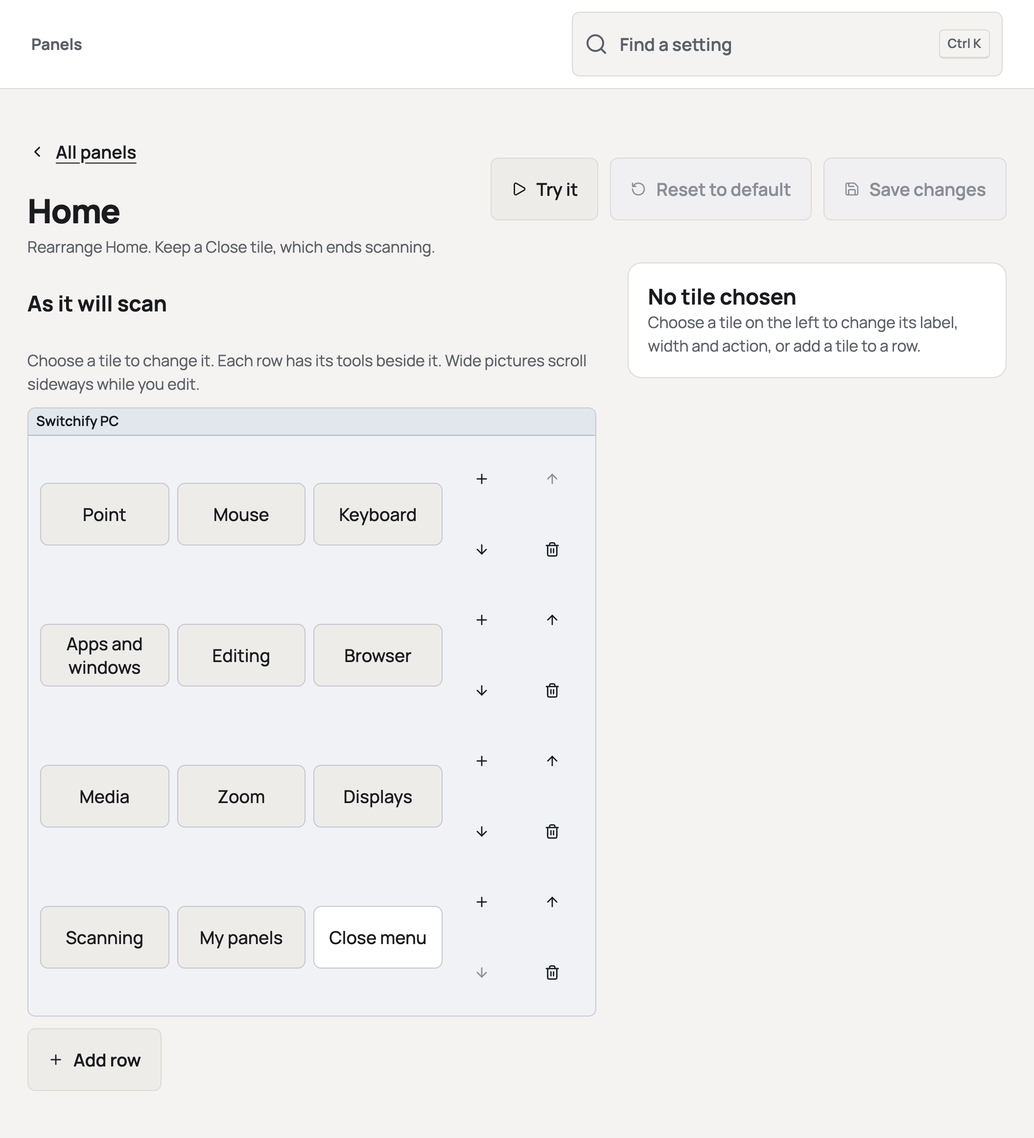
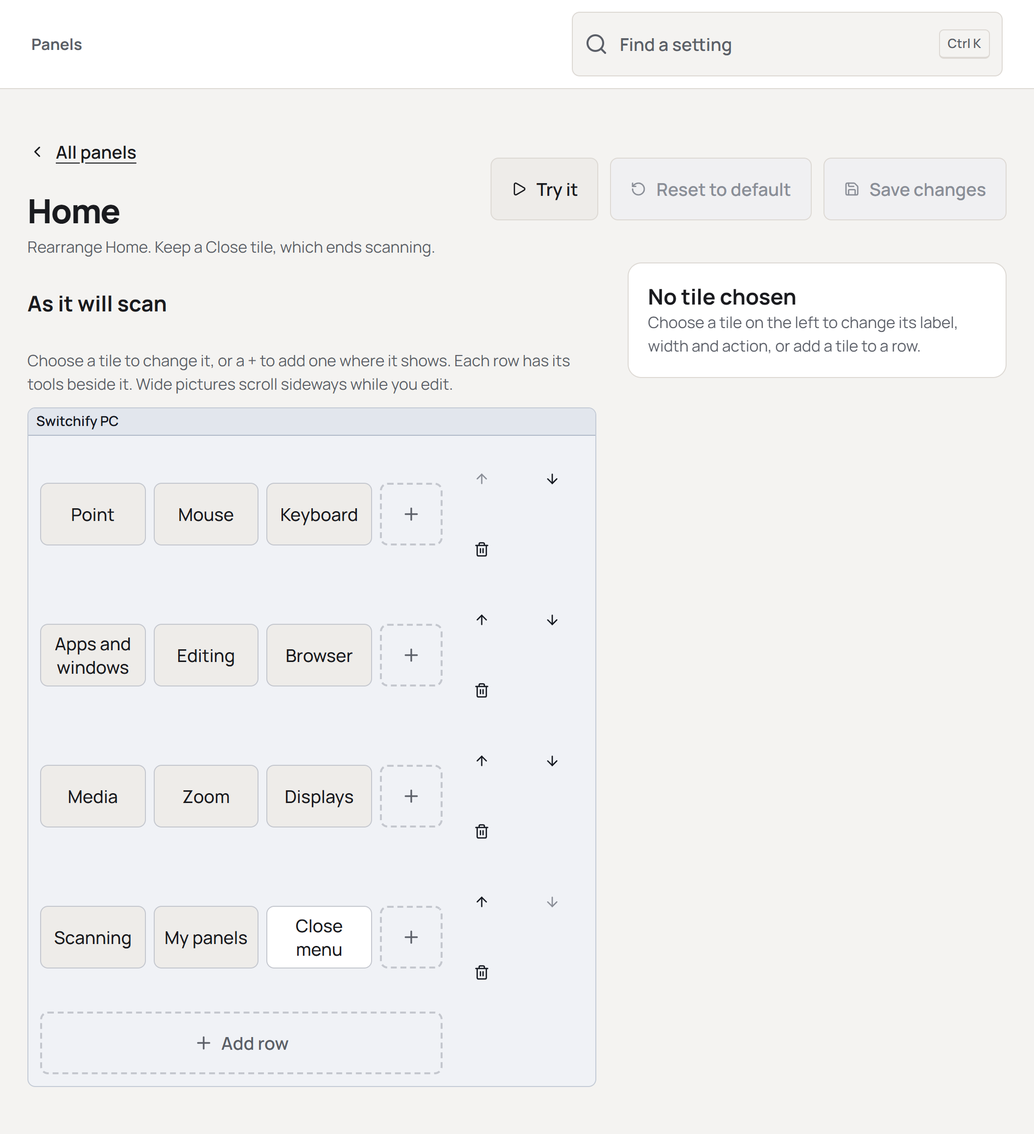
Add tiles and rows from + slots in the panel editor picture (#1456)
* Add tiles and rows from + slots in the panel editor picture

A dashed + now sits wherever a tile can be created: at the end of each
row or column with room, an Add row where the new row will land, and a
+ beside the first row of keys for a new column. They replace the Add
tile icons among the row and column tools and the Add row / Add column
buttons under the picture, and disappear once there is no room.

Closes #1455

* Send empty-row notes to the row's + and say rows go above the last key row

---------

diff --git a/src/panels/PanelEditor.tsx b/src/panels/PanelEditor.tsx
@@ -42,8 +42,6 @@ export function PanelEditor({ panel, panels, theme, busy, error, builtin, extras
   const [catalogue, setCatalogue] = useState<PanelActionEntry[]>([]);
   const backRef = useRef<HTMLButtonElement>(null);
   const deleteRef = useRef<HTMLButtonElement>(null);
-  const addRowRef = useRef<HTMLButtonElement>(null);
-  const addColumnRef = useRef<HTMLButtonElement>(null);
   const nameRef = useRef<HTMLInputElement>(null);
   const rowsRef = useRef<HTMLElement>(null);
   const ids = useId();
@@ -55,6 +53,8 @@ export function PanelEditor({ panel, panels, theme, busy, error, builtin, extras
   /** Brings an element into view and gives it focus. */
   const reveal = (element: HTMLElement | null) => { element?.scrollIntoView?.({ block: "center" }); element?.focus(); };
   const tileId = (selection: Selection) => `${ids}-${selection.column ? "ctile" : "tile"}-${selection.row}-${selection.cell}`;
+  /** The add button at the end of a row or column, or (no index) the one that adds a new row or column. */
+  const addId = (column: boolean, index?: number) => `${ids}-add-${column ? "column" : "row"}${index === undefined ? "" : `-${index}`}`;
   /** What stops the panel saving, each with a way to the place it is about,
    *  so a problem out of view is never a mystery. */
   const attention = Object.entries(problems).map(([key, message]) => {
@@ -66,7 +66,8 @@ export function PanelEditor({ panel, panels, theme, busy, error, builtin, extras
     const line = key.match(/^(row|column)-(\d+)$/);
     if (line) {
       const place = `${line[1] === "row" ? "Row" : "Column"} ${Number(line[2]) + 1}`;
-      return { label: `${place}: ${message}`, go: () => reveal(document.querySelector<HTMLElement>(`[aria-label="Add tile to ${place.toLowerCase()}"]`)) };
+      const first: Selection = { row: Number(line[2]), cell: 0, ...(line[1] === "column" ? { column: true as const } : {}) };
+      return { label: `${place}: ${message}`, go: () => reveal(document.getElementById(tileId(first)) ?? document.getElementById(addId(line[1] === "column", first.row)) ?? rowsRef.current) };
     }
     const section = key === "name" ? nameRef : rowsRef;
     return { label: `To save: ${message}`, go: () => reveal(section.current) };
@@ -81,8 +82,13 @@ export function PanelEditor({ panel, panels, theme, busy, error, builtin, extras
   const replaceIn = (lines: PanelCell[][], selection: Selection, cell: PanelCell) => lines.map((line, r) => r === selection.row ? line.map((candidate, c) => c === selection.cell ? cell : candidate) : line);
   const setCell = (selection: Selection, cell: PanelCell) => selection.column ? setColumns(replaceIn(columns, selection, cell)) : updateRows(replaceIn(draft.rows, selection, cell));
   const problemOf = (selection: Selection) => problems[selection.column ? `ctile-${selection.row}-${selection.cell}` : `tile-${selection.row}-${selection.cell}`] ?? null;
-  /** Focus goes to the section's Add button once the tile that had it is gone. */
-  const focusAfterRemoval = (column = false) => requestAnimationFrame(() => (column ? addColumnRef : addRowRef).current?.focus());
+  /** Once the tile that had focus is gone, focus goes to the add button
+   *  where it was: the end of its row or column if that is still there,
+   *  otherwise the one that adds a new row or column. */
+  const focusAfterRemoval = (column: boolean, index?: number) => requestAnimationFrame(() => {
+    const target = (index === undefined ? null : document.getElementById(addId(column, index))) ?? document.getElementById(addId(column));
+    (target ?? rowsRef.current)?.focus();
+  });
 
   const addTile = (rowIndex: number) => {
     if (draft.rows[rowIndex].length >= maxTilesPerRow) return;
@@ -95,10 +101,12 @@ export function PanelEditor({ panel, panels, theme, busy, error, builtin, extras
     choose({ row: draft.rows.length, cell: 0 });
   };
   const removeTile = (selection: Selection) => {
-    const lines = (selection.column ? columns : draft.rows).map((line, r) => r === selection.row ? line.filter((_, c) => c !== selection.cell) : line).filter((line) => line.length > 0);
+    const before = selection.column ? columns : draft.rows;
+    const lines = before.map((line, r) => r === selection.row ? line.filter((_, c) => c !== selection.cell) : line).filter((line) => line.length > 0);
     if (selection.column) setColumns(lines); else updateRows(lines);
     setSelected(null);
-    focusAfterRemoval(selection.column === true);
+    // A line left empty goes, and the lines after it move up, so only a line that stays keeps its place.
+    focusAfterRemoval(selection.column === true, before[selection.row].length > 1 ? selection.row : undefined);
   };
   const addColumnTile = (columnIndex: number) => {
     if (columns[columnIndex].length >= maxColumnTiles) return;
@@ -126,7 +134,7 @@ export function PanelEditor({ panel, panels, theme, busy, error, builtin, extras
   const removeRow = (rowIndex: number) => {
     updateRows(draft.rows.filter((_, r) => r !== rowIndex));
     setSelected(null);
-    focusAfterRemoval();
+    focusAfterRemoval(false);
   };
   /** Moves a tile to the end of another row or column, or a new one. A row
    *  or column left empty goes with it. */
@@ -173,6 +181,9 @@ export function PanelEditor({ panel, panels, theme, busy, error, builtin, extras
     setCell(selection, { ...cell, action, label });
   };
 
+  /** A + drawn in the picture where a tile can be created; the new row's one says so in words. */
+  const addButton = (id: string, label: string, onClick: () => void, wide = false) => <Button id={id} className="panel-editor-add" aria-label={label} title={label} onClick={onClick}><Plus size={20} aria-hidden="true" />{wide && <span aria-hidden="true">{label}</span>}</Button>;
+
   const requestClose = () => { if (!dirty) { onClose(); return; } onClearError?.(); setConfirmation("discard"); };
   const requestDelete = () => { onClearError?.(); setConfirmation("delete"); };
   const keepEditing = () => {
@@ -195,7 +206,7 @@ export function PanelEditor({ panel, panels, theme, busy, error, builtin, extras
       busy={busy} error={error} onCancel={keepEditing} onConfirm={() => { if (confirmation === "delete") void onDelete(); else onClose(); }}
     />}
     <div inert={confirmation !== null || undefined}>
-      <PageHeader title={panel.name} before={<Button ref={backRef} className="text-button panel-back" onClick={requestClose}><ChevronLeft size={18} aria-hidden="true" />All panels</Button>} description={<>{extras ? "Add rows of your own below the keys, or columns beside them. The keys stay as they are; your tiles scan with them." : builtin ? (builtin.kind === "home" ? "Rearrange Home. Keep a Close tile, which ends scanning." : "Rearrange this built-in menu. Keep a Back or Close tile so it can be left.") : "Choose a tile to change what it says and does. Rows share their width between their tiles."}</>} action={
+      <PageHeader title={panel.name} before={<Button ref={backRef} className="text-button panel-back" onClick={requestClose}><ChevronLeft size={18} aria-hidden="true" />All panels</Button>} description={<>{extras ? "Add rows of your own above the last row of keys, or columns beside them. The keys stay as they are; your tiles scan with them." : builtin ? (builtin.kind === "home" ? "Rearrange Home. Keep a Close tile, which ends scanning." : "Rearrange this built-in menu. Keep a Back or Close tile so it can be left.") : "Choose a tile to change what it says and does. Rows share their width between their tiles."}</>} action={
         <div className="panel-header-actions">{onTry && <Button className="secondary" disabled={busy || dirty} title={dirty ? "Save first, then try" : "Open this panel in the scanner"} onClick={() => { onClearError?.(); void onTry(); }}><Play size={16} aria-hidden="true" />Try it</Button>}{extras
           ? <Button ref={deleteRef} className="secondary danger" disabled={busy || !extras.hasTiles} title={extras.hasTiles ? undefined : "No tiles added yet"} onClick={requestDelete}><Trash2 size={16} aria-hidden="true" />Remove tiles</Button>
           : builtin
@@ -214,7 +225,7 @@ export function PanelEditor({ panel, panels, theme, busy, error, builtin, extras
           </form>
           <section ref={rowsRef} tabIndex={-1} className="panel-grid-editor" aria-label="Tiles">
             <h2>As it will scan</h2>
-            <p className="capability-note">{extras ? "Choose one of your tiles to change it. Row tools sit beside the picture; labelled column tools sit below it." : "Choose a tile to change it. Each row has its tools beside it."} Wide pictures scroll sideways while you edit.</p>
+            <p className="capability-note">{extras ? "Choose one of your tiles to change it, or a + to add one where it shows. Row tools sit beside the picture; labelled column tools sit below it." : "Choose a tile to change it, or a + to add one where it shows. Each row has its tools beside it."} Wide pictures scroll sideways while you edit.</p>
             {problems.rows && <p className="field-error">{problems.rows}</p>}
             {problems.columns && <p className="field-error">{problems.columns}</p>}
             {[...draft.rows.map((_, index) => [`row-${index}`, `Row ${index + 1}`]), ...columns.map((_, index) => [`column-${index}`, `Column ${index + 1}`])].map(([key, place]) => problems[key] && <p key={key} className="field-error">{place}: {problems[key]}</p>)}
@@ -225,31 +236,29 @@ export function PanelEditor({ panel, panels, theme, busy, error, builtin, extras
                 const where = `${place.column ? "Column" : "Row"} ${place.row + 1}, tile ${place.cell + 1}`;
                 return <Button id={tileId(place)} className="panel-editor-tile" data-selected={here || undefined} data-toolbar={toolbarAction(cell.action) || undefined} data-invalid={problem ? true : undefined} aria-pressed={here} aria-label={`${where}: ${cell.label.trim() || "no label"}, ${describeAction(cell.action, catalogue, panels)}${problem ? `, ${problem}` : ""}`} onClick={() => choose(place)}>{cell.label.trim() || <em>No label</em>}</Button>;
               },
+              rowEnd: (rowIndex) => draft.rows[rowIndex].length < maxTilesPerRow && addButton(addId(false, rowIndex), `Add tile to row ${rowIndex + 1}`, () => addTile(rowIndex)),
+              columnEnd: (columnIndex) => columns[columnIndex].length < maxColumnTiles && addButton(addId(true, columnIndex), `Add tile to column ${columnIndex + 1}`, () => addColumnTile(columnIndex)),
+              newRow: draft.rows.length < rowLimit && addButton(addId(false), "Add row", addRow, true),
+              newColumn: extras !== undefined && columns.length < maxExtraColumns && addButton(addId(true), "Add column", addColumn),
               rowTools: (rowIndex) => <>
-                <IconButton disabled={draft.rows[rowIndex].length >= maxTilesPerRow} label={`Add tile to row ${rowIndex + 1}`} onClick={() => addTile(rowIndex)}><Plus size={16} /></IconButton>
                 <IconButton disabled={rowIndex === 0} label={`Move row ${rowIndex + 1} up`} onClick={() => moveRow(rowIndex, -1)}><ArrowUp size={16} /></IconButton>
                 <IconButton disabled={rowIndex === draft.rows.length - 1} label={`Move row ${rowIndex + 1} down`} onClick={() => moveRow(rowIndex, 1)}><ArrowDown size={16} /></IconButton>
                 <IconButton className="danger-icon" label={`Remove row ${rowIndex + 1}`} onClick={() => removeRow(rowIndex)}><Trash2 size={16} /></IconButton>
               </>,
               columnTools: (columnIndex) => <>
-                <IconButton disabled={columns[columnIndex].length >= maxColumnTiles} label={`Add tile to column ${columnIndex + 1}`} onClick={() => addColumnTile(columnIndex)}><Plus size={16} /></IconButton>
                 <IconButton disabled={columnIndex === 0} label={`Move column ${columnIndex + 1} left`} onClick={() => moveColumn(columnIndex, -1)}><ArrowLeft size={16} /></IconButton>
                 <IconButton disabled={columnIndex === columns.length - 1} label={`Move column ${columnIndex + 1} right`} onClick={() => moveColumn(columnIndex, 1)}><ArrowRight size={16} /></IconButton>
                 <IconButton className="danger-icon" label={`Remove column ${columnIndex + 1}`} onClick={() => removeColumn(columnIndex)}><Trash2 size={16} /></IconButton>
               </>,
             }} />
-            <div className="panel-canvas-actions">
-              <Button ref={addRowRef} className="secondary" disabled={draft.rows.length >= rowLimit} onClick={addRow}><Plus size={16} aria-hidden="true" />Add row</Button>
-              {extras && <Button ref={addColumnRef} className="secondary" disabled={columns.length >= maxExtraColumns} onClick={addColumn}><Plus size={16} aria-hidden="true" />Add column</Button>}
-            </div>
-            {extras && draft.rows.length === 0 && columns.length === 0 && <p className="capability-note">No tiles of your own yet. Add a row below the keys or a column beside them, then give its tiles labels and actions.</p>}
+            {extras && draft.rows.length === 0 && columns.length === 0 && <p className="capability-note">No tiles of your own yet. Choose Add row above the last row of keys, or the + beside the keys for a column, then give its tiles labels and actions.</p>}
           </section>
         </div>
         <aside className="panel-inspector" aria-label="Selected tile">
           {selected && current
             ? <TileInspector pick={pick} selection={selected} cell={current} catalogue={catalogue} panels={panels} self={draft.id} problem={problemOf(selected)} lines={selected.column ? columns : draft.rows} lineLimit={selected.column ? maxExtraColumns : rowLimit} tileLimit={selected.column ? maxColumnTiles : maxTilesPerRow}
               onChange={(cell) => setCell(selected, cell)} onAction={(action) => chooseAction(selected, current, action)} onMove={(direction) => moveTile(selected, direction)} onMoveTo={(target) => moveTileTo(selected, target)} onRemove={() => removeTile(selected)} />
-            : <div className="panel-inspector-empty"><h2>No tile chosen</h2><p>Choose a tile on the left to change its label, width and action, or add a tile to a row.</p></div>}
+            : <div className="panel-inspector-empty"><h2>No tile chosen</h2><p>Choose a tile on the left to change its label, width and action, or a + to add one.</p></div>}
         </aside>
       </div>
     </div>

diff --git a/src/panels/PanelPicture.tsx b/src/panels/PanelPicture.tsx
@@ -22,12 +22,19 @@ export function picturePalette(theme: PanelTheme | undefined) {
 export type TilePlace = { row: number; cell: number; column?: true };
 
 /** Makes a picture editable: the user's tiles are drawn by `tile`, every
- *  row gets tools beside it and columns get labelled tools below. The whole thing is a group
- *  rather than an image. */
+ *  row gets tools beside it and columns get labelled tools below. Wherever a
+ *  tile can be created there is an add button: at the end of a row or column
+ *  with room (`rowEnd`, `columnEnd`), a new row where it will land (`newRow`)
+ *  and a new column to the right (`newColumn`). Each is null where there is
+ *  no room. The whole thing is a group rather than an image. */
 export type PictureEditing = {
   tile: (cell: PanelCell, place: TilePlace, colours: Palette) => React.ReactNode;
   rowTools: (row: number) => React.ReactNode;
   columnTools: (column: number) => React.ReactNode;
+  rowEnd: (row: number) => React.ReactNode;
+  columnEnd: (column: number) => React.ReactNode;
+  newRow: React.ReactNode;
+  newColumn: React.ReactNode;
 };
 
 /** A panel drawn as the scan will show it: a title band, then the rows of
@@ -51,21 +58,38 @@ export function PanelPicture({ panel, fixed, columns = [], editing, theme, title
     ? editing.tile(cell, place, colours)
     : <PictureTile cell={cell} colours={colours} width={width} data-column={place.column ? place.row + 1 : undefined} />;
   type Line = { key: string; keys: React.ReactNode[]; blank: boolean; row?: number };
+  // A row's add button sits after its tiles at a fixed width, so the tiles keep their shares of the row.
+  const rowEnd = (row: number) => {
+    const add = editing?.rowEnd(row);
+    return add ? [<span key="add" className="panel-picture-add">{add}</span>] : [];
+  };
+  // A new row is drawn where it will land: after the user's rows, so above a native panel's last row of keys.
+  const newRow: Line[] = editing?.newRow ? [{ key: "new-row", blank: false, keys: [<span key="add" className="panel-picture-slot" style={{ flexGrow: 1, flexBasis: 0 }}>{editing.newRow}</span>] }] : [];
   const lines: Line[] = [
     // While editing, the keys are scenery: the group's label already says they are there.
     ...(fixed ?? []).slice(0, -1).map((row, index): Line => ({ key: `fixed-${index}`, blank: false, keys: row.map((key, column) => <FixedTile key={column} cell={key} colours={colours} hidden={editing !== undefined} />) })),
-    ...panel.rows.map((row, index): Line => ({ key: `row-${index}`, blank: false, row: index, keys: row.map((cell, column) => <span key={column} className="panel-picture-slot" style={{ flexGrow: cell.span, flexBasis: 0 }}>{userTile(cell, { row: index, cell: column })}</span>) })),
+    ...panel.rows.map((row, index): Line => ({ key: `row-${index}`, blank: false, row: index, keys: [...row.map((cell, column) => <span key={column} className="panel-picture-slot" style={{ flexGrow: cell.span, flexBasis: 0 }}>{userTile(cell, { row: index, cell: column })}</span>), ...rowEnd(index)] })),
+    ...newRow,
     ...(fixed ?? []).slice(-1).map((row): Line => ({ key: "fixed-last", blank: false, keys: row.map((key, column) => <FixedTile key={column} cell={key} colours={colours} hidden={editing !== undefined} />) })),
   ];
-  const longest = Math.max(0, ...columns.map((column) => column.length));
+  const columnEnds = columns.map((_, c) => editing?.columnEnd(c) || null);
+  const longest = Math.max(0, ...columns.map((column, c) => column.length + (columnEnds[c] ? 1 : 0)));
   for (let index = lines.length; index < longest; index++) lines.push({ key: `below-${index}`, blank: true, keys: [] });
-  const slots = (index: number) => columns.map((column, c) => column[index]
-    ? <span key={`column-${c}`} className="panel-picture-slot" style={{ flexGrow: columnWidth(column), flexBasis: 0 }}>{userTile(column[index], { row: c, cell: index, column: true }, columnWidth(column))}</span>
-    : <span key={`column-${c}`} className="panel-picture-spacer" style={{ flexGrow: columnWidth(column), flexBasis: 0 }} />);
+  const newColumn = editing?.newColumn || null;
+  const slots = (index: number) => [
+    ...columns.map((column, c) => column[index]
+      ? <span key={`column-${c}`} className="panel-picture-slot" style={{ flexGrow: columnWidth(column), flexBasis: 0 }}>{userTile(column[index], { row: c, cell: index, column: true }, columnWidth(column))}</span>
+      : index === column.length && columnEnds[c]
+      ? <span key={`column-${c}`} className="panel-picture-slot" style={{ flexGrow: columnWidth(column), flexBasis: 0 }}>{columnEnds[c]}</span>
+      : <span key={`column-${c}`} className="panel-picture-spacer" style={{ flexGrow: columnWidth(column), flexBasis: 0 }} />),
+    // A new column starts beside the first line; the lines below keep its width clear.
+    ...(newColumn ? [<span key="new-column" className="panel-picture-add">{index === 0 && newColumn}</span>] : []),
+  ];
+  const besideKeys = columns.length > 0 || newColumn !== null;
   const keys = (line: Line) => line.blank
     ? <span className="panel-picture-spacer" style={{ flexGrow: keysWeight, flexBasis: 0 }} />
     // With columns beside them, every line keeps its keys to the keys' width so the columns line up.
-    : columns.length > 0 ? <span className="panel-picture-keys" style={{ flexGrow: keysWeight, flexBasis: 0 }}>{line.keys}</span> : line.keys;
+    : besideKeys ? <span className="panel-picture-keys" style={{ flexGrow: keysWeight, flexBasis: 0 }}>{line.keys}</span> : line.keys;
   const line = (entry: Line, index: number) => {
     const row = <div className="panel-picture-row" role={editing && entry.row !== undefined ? "group" : undefined} aria-label={editing && entry.row !== undefined ? `Row ${entry.row + 1}` : undefined}>{keys(entry)}{slots(index)}</div>;
     return editing

diff --git a/src/panels/PanelEditor.test.tsx b/src/panels/PanelEditor.test.tsx
@@ -100,7 +100,9 @@ describe("PanelEditor", () => {
     mount();
     fireEvent.click(screen.getByRole("button", { name: "Add tile to row 1" }));
     expect(screen.getByRole("heading", { name: "Row 1, tile 3" })).toBeInTheDocument();
-    expect(within(screen.getByRole("group", { name: "Row 1" })).getAllByRole("button")).toHaveLength(3);
+    expect(within(screen.getByRole("group", { name: "Row 1" })).getAllByRole("button", { name: /^Row 1, tile/ })).toHaveLength(3);
+    // The row ends with its + after the new tile.
+    expect(within(screen.getByRole("group", { name: "Row 1" })).getAllByRole("button").at(-1)).toHaveAccessibleName("Add tile to row 1");
     fireEvent.click(screen.getByRole("button", { name: "Move tile left" }));
     expect(screen.getByRole("heading", { name: "Row 1, tile 2" })).toBeInTheDocument();
     fireEvent.click(screen.getByRole("button", { name: "Add row" }));
@@ -115,6 +117,29 @@ describe("PanelEditor", () => {
     fireEvent.click(screen.getByRole("button", { name: "Remove row 1" }));
     expect(screen.getByText("Add at least one row.")).toBeInTheDocument();
     expect(screen.getByRole("button", { name: "Save panel" })).toBeDisabled();
+  });
+
+  it("shows a + wherever a tile can be created, and none where there is no room", async () => {
+    const tile = (label: string) => ({ label, action: { type: "back" as const }, span: 1 });
+    const full = Array.from({ length: 8 }, (_, index) => tile(`T${index + 1}`));
+    mount({ ...starter(), rows: [full, [tile("Back")]] });
+    // A full row has no +; one with room ends with one; and a new row can be added.
+    expect(screen.queryByRole("button", { name: "Add tile to row 1" })).not.toBeInTheDocument();
+    expect(within(screen.getByRole("group", { name: "Row 2" })).getByRole("button", { name: "Add tile to row 2" })).toBeInTheDocument();
+    fireEvent.click(screen.getByRole("button", { name: "Add tile to row 2" }));
+    expect(screen.getByRole("heading", { name: "Row 2, tile 2" })).toBeInTheDocument();
+    // Removing a tile from a row that stays puts focus on that row's +.
+    fireEvent.click(screen.getByRole("button", { name: "Remove tile" }));
+    await waitFor(() => expect(screen.getByRole("button", { name: "Add tile to row 2" })).toHaveFocus());
+    for (let added = 2; added < 12; added++) fireEvent.click(screen.getByRole("button", { name: "Add row" }));
+    expect(screen.getByRole("group", { name: "Row 12" })).toBeInTheDocument();
+    expect(screen.queryByRole("button", { name: "Add row" })).not.toBeInTheDocument();
+  });
+
+  it("takes a note about an empty row to that row's +", async () => {
+    mount({ ...starter(), rows: [...starter().rows, []] });
+    fireEvent.click(within(screen.getByRole("status")).getByRole("button", { name: /^Row 3:/ }));
+    await waitFor(() => expect(screen.getByRole("button", { name: "Add tile to row 3" })).toHaveFocus());
   });
 
   it("keeps focus and the user's labels when tiles and rows move", async () => {

diff --git a/src/panels/PanelPicture.test.tsx b/src/panels/PanelPicture.test.tsx
@@ -68,6 +68,7 @@ describe("PanelPicture", () => {
       tile: (cell, place) => <button type="button">{place.column ? "column" : "row"} {place.row + 1}.{place.cell + 1} {cell.label}</button>,
       rowTools: (row) => <button type="button">tools for row {row + 1}</button>,
       columnTools: (column) => <button type="button">tools for column {column + 1}</button>,
+      rowEnd: () => null, columnEnd: () => null, newRow: null, newColumn: null,
     }} />);
     const group = screen.getByRole("group", { name: "Greetings as it will scan: Copy, Hello; Back; columns: A" });
     expect(within(group).getByRole("button", { name: "row 1.2 Hello" })).toBeInTheDocument();
@@ -77,8 +78,23 @@ describe("PanelPicture", () => {
     expect(within(group).getByRole("button", { name: "tools for column 1" })).toBeInTheDocument();
     expect(screen.queryByRole("img")).not.toBeInTheDocument();
     // A native panel's keys are scenery while editing: not read out one by one.
-    render(<PanelPicture panel={panel} fixed={[[{ label: "q", weight: 1 }]]} theme="dark" editing={{ tile: () => null, rowTools: () => null, columnTools: () => null }} />);
+    render(<PanelPicture panel={panel} fixed={[[{ label: "q", weight: 1 }]]} theme="dark" editing={{ tile: () => null, rowTools: () => null, columnTools: () => null, rowEnd: () => null, columnEnd: () => null, newRow: null, newColumn: null }} />);
     expect(screen.getByText("q")).toHaveAttribute("aria-hidden", "true");
+  });
+
+  it("draws a + wherever a tile can be created, a new row where it will land", () => {
+    const tile = (label: string) => ({ label, action: { type: "text", text: label } as const, span: 1 });
+    const { container } = render(<PanelPicture panel={{ ...panel, rows: [[tile("R")]] }} fixed={[[{ label: "q", weight: 1 }], [{ label: "z", weight: 1 }]]} columns={[[tile("A")]]} theme="dark" editing={{
+      tile: (cell) => <button type="button">{cell.label}</button>,
+      rowTools: () => null, columnTools: () => null,
+      rowEnd: (row) => <button type="button">end of row {row + 1}</button>,
+      columnEnd: (column) => <button type="button">end of column {column + 1}</button>,
+      newRow: <button type="button">new row</button>,
+      newColumn: <button type="button">new column</button>,
+    }} />);
+    const rows = [...container.querySelectorAll(".panel-picture-row")] as HTMLElement[];
+    // The keys, the user's row, the new row, then the last row of keys.
+    expect(rows.map((row) => row.textContent)).toEqual(["qAnew column", "Rend of row 1end of column 1", "new row", "z"]);
   });
 
   it("follows the chosen panel theme, or the computer when set to system", () => {

diff --git a/src/App.test.tsx b/src/App.test.tsx
@@ -737,7 +737,7 @@ describe("Switchify PC shell", () => {
     expect(screen.queryByRole("textbox", { name: "Panel name" })).not.toBeInTheDocument();
     expect(screen.getByRole("button", { name: "Remove tiles" })).toBeDisabled();
     expect(screen.getByRole("button", { name: "Save changes" })).toBeDisabled();
-    expect(screen.getByText("No tiles of your own yet. Add a row below the keys or a column beside them, then give its tiles labels and actions.")).toBeInTheDocument();
+    expect(screen.getByText("No tiles of your own yet. Choose Add row above the last row of keys, or the + beside the keys for a column, then give its tiles labels and actions.")).toBeInTheDocument();
     fireEvent.click(screen.getByRole("button", { name: "Add row" }));
     fireEvent.click(screen.getByRole("button", { name: "Save changes" }));
     await waitFor(() => expect(saveExtras).toHaveBeenCalled());
@@ -780,7 +780,8 @@ describe("Switchify PC shell", () => {
     // and removing a column puts focus back on Add column.
     fireEvent.click(screen.getByRole("button", { name: "Mouse panel, 1 column" }));
     fireEvent.click(await screen.findByRole("button", { name: "Add column" }));
-    expect(screen.getByRole("button", { name: "Add column" })).toBeDisabled();
+    // With no room for another column, its + is gone.
+    expect(screen.queryByRole("button", { name: "Add column" })).not.toBeInTheDocument();
     fireEvent.click(screen.getByRole("button", { name: "Add row" }));
     fireEvent.click(screen.getByRole("button", { name: "Add row" }));
     fireEvent.click(screen.getByRole("button", { name: /^Column 2, tile 1/ }));
@@ -845,7 +846,7 @@ describe("Switchify PC shell", () => {
     fireEvent.click(await screen.findByRole("button", { name: "Mouse panel, keys only" }));
     await screen.findByRole("heading", { name: "Mouse panel", level: 1 });
     for (let added = 0; added < 4; added++) fireEvent.click(screen.getByRole("button", { name: "Add row" }));
-    expect(screen.getByRole("button", { name: "Add row" })).toBeDisabled();
+    expect(screen.queryByRole("button", { name: "Add row" })).not.toBeInTheDocument();
     expect(screen.getByRole("button", { name: "Save changes" })).toBeEnabled();
   });
 

diff --git a/src/ui/app.css b/src/ui/app.css
@@ -425,7 +425,10 @@ section[data-found], div[data-found]:not(.tile) { padding: 10px; margin: -10px; 
 .panel-column-toolbars { display: flex; flex-wrap: wrap; gap: 20px; border-top: 1px solid var(--border); padding-top: 16px; }
 .panel-column-toolbar { display: grid; gap: 8px; min-width: 0; }
 .panel-column-buttons { display: flex; flex-wrap: wrap; gap: 8px; }
-.panel-canvas-actions { display: flex; flex-wrap: wrap; gap: 12px; }
+/* Where a tile can be created: a dashed + at a fixed width, so the tiles beside it keep their shares. */
+.panel-picture-add { display: flex; flex: 0 0 64px; min-width: 64px; }
+.btn.panel-editor-add { width: 100%; min-width: 64px; min-height: 64px; gap: 8px; border: 2px dashed var(--border-strong); border-radius: 8px; padding: 6px 8px; color: var(--muted); background: transparent; }
+.btn.panel-editor-add:hover { border-color: var(--scan); color: var(--text); }
 .panel-picture-keys { display: flex; gap: 4px; min-width: 0; }
 .panel-picture-large .panel-picture-keys { gap: 8px; }
 .panel-picture-large { font-size: 1rem; }

diff --git a/site/src/content/docs/using/panels.md b/site/src/content/docs/using/panels.md
@@ -28,7 +28,7 @@ The editor draws the panel as it will scan. Wide pictures scroll sideways while 
 - **Width** makes a tile two, three or four times as wide as a normal tile. The tiles in a row share the row's width between them.
 - **Action** is what the tile does. Search the list by what you want, for example "copy", "volume" or "new tab", and choose an action. Some actions need a little more: **Press keys** asks you to press the keys on your keyboard, **Type text** asks for the text, and **Open one of my panels** asks which panel.
 
-Beside each row are its tools: add a tile to it, move it up or down, or remove it. Column tools sit below the picture, labelled **Column 1**, **Column 2**, and so on. **Add row** under the panel adds a row. With a tile chosen, the arrows move it along its row, **Row** moves it to the end of another row or a new one, and **Remove tile** takes it away. Nothing changes on the scanned panel until you choose **Save panel**; if you leave with unsaved changes, Switchify PC asks first.
+A dashed **+** shows each place a new tile can go: at the end of every row with room for another tile, and **Add row** under the last row. Choose one to add a tile there; the new tile is chosen, ready to change on the right. A row holds up to eight tiles and a panel up to twelve rows; once there is no room, the **+** is not shown. Beside each row are its tools: move it up or down, or remove it. Column tools sit below the picture, labelled **Column 1**, **Column 2**, and so on. With a tile chosen, the arrows move it along its row, **Row** moves it to the end of another row or a new one, and **Remove tile** takes it away. Nothing changes on the scanned panel until you choose **Save panel**; if you leave with unsaved changes, Switchify PC asks first.
 
 If something stops the panel saving, such as a tile with no label or a link to a panel that no longer exists, a note under the buttons says what and where. Choose the note to go to that tile.
 
@@ -36,7 +36,7 @@ If something stops the panel saving, such as a tile with no label or a link to a
 
 **Try it** opens the panel in the scanner straight away, as it would open from Home, so you can see and use it without leaving the editor. The Switchify PC window goes out of the way first, because the tiles act on whatever window is in front. Save first: Try it uses the panel as it was last saved, so it is off while there are unsaved changes. To come back to the editor, choose **Switchify** on Home (Back takes you there from a panel), or Switchify PC on the taskbar or in the Dock. Built-in menus, the mouse panel and the keyboard can be tried the same way. If the panel is open in the scanner when you save, it changes there and then, scanning again from the top. The mouse panel and the keyboard take new tiles the same way, unless the pointer is being moved or scrolled at that moment; then they change when the panel is next opened. A panel you delete closes, and the page it opened from is shown instead: Home, when you were trying it.
 
-![The editor for the Greetings panel: the panel drawn as it will scan, with tools beside each row and the Hello tile chosen, and on the right its label, width, row, action "Type Hello, how are you?" and the searchable list of actions.](../../../assets/screenshots/panel-editor.png)
+![The editor for the Greetings panel: the panel drawn as it will scan, each row ending in a dashed plus button with its tools beside it, a dashed Add row button under the last row, the Hello tile chosen, and on the right its label, width, row, action "Type Hello, how are you?" and the searchable list of actions.](../../../assets/screenshots/panel-editor.png)
 
 ## What a tile can do
 
@@ -66,21 +66,21 @@ If you rearranged Home in an earlier version, it gains a row with **Displays** a
 
 The Shut down and Restart pages, the page of clicks that appears after you choose a point, and the mouse panel's own pages cannot be changed. More clicks, reached from that page of clicks, can.
 
-![The editor open on the built-in Home menu: its four rows of tiles drawn as they scan with tools beside each row, a Reset to default button beside Save changes, and no name field.](../../../assets/screenshots/builtin-menu-editor.png)
+![The editor open on the built-in Home menu: its four rows of tiles drawn as they scan, each ending in a dashed plus button with tools beside it, a dashed Add row button under them, a Reset to default button beside Save changes, and no name field.](../../../assets/screenshots/builtin-menu-editor.png)
 
 Rearranged menus are saved on this computer and, if you sign in to your account, go to your other computers with your settings.
 
 ## Add tiles around the mouse panel's and the keyboard's keys
 
-**Mouse panel** and **Keyboard** in the On Home list are the two scanning panels with their keys. The keys cannot be changed, but you can add tiles of your own around them: a phrase you type often, a shortcut, or a link to one of your panels. Choose a panel, then **Add row** for a row below the keys or **Add column** for a column beside them, and give each tile a label and an action as on any panel. The keys are drawn faintly and cannot be chosen; your tiles sit among them where they will scan, with each row's tools beside it and each column's tools under it. With a tile chosen, **Row** or **Column** on the right moves it to another row or column, or a new one. Choose **Save changes**; the row then says what you added.
+**Mouse panel** and **Keyboard** in the On Home list are the two scanning panels with their keys. The keys cannot be changed, but you can add tiles of your own around them: a phrase you type often, a shortcut, or a link to one of your panels. Choose a panel, then **Add row**, just above the last row of keys, for a row of your own, or the **+** beside the first row of keys for a column. Give each tile a label and an action as on any panel. The keys are drawn faintly and cannot be chosen; your tiles sit among them where they will scan, each row and column ending in a **+** while it has room. Each row's tools are beside it and each column's tools under it. With a tile chosen, **Row** or **Column** on the right moves it to another row or column, or a new one. Choose **Save changes**; the row then says what you added.
 
-Up to four rows fit below the keys, and each row shares the panel's width between its tiles, as on your own panels. Up to two columns of up to six tiles run down the right of the keys from the top row; a column longer than the panel adds rows of its own below it, and a column is as wide as its widest tile.
+Up to four rows fit above the last row of keys, and each row shares the panel's width between its tiles, as on your own panels. Up to two columns of up to six tiles run down the right of the keys from the top row; a column longer than the panel adds rows of its own below it, and a column is as wide as its widest tile.
 
 The rows appear on the mouse panel's Movement page and on every keyboard page, just above the bottom row; the columns appear on the same pages, to the right. All of them scan like the rest: a column's tiles are the last in their rows. A tile acts as it does on your panels. On the keyboard, a tile that types waits for the text to land before scanning on, like a key. **Back** and **Close** leave the panel: from the keyboard they close it, and from the mouse panel they stop scanning, as its own Close key does. A tile that opens a menu or one of your panels from the mouse panel comes back to it with Back; from the keyboard, Back goes to Home.
 
 **Remove tiles** takes the panel back to its keys alone. Switchify PC asks first.
 
-![The editor open on the Keyboard: its keys drawn faintly with a row of two added tiles, Hello and My panels, below them and a column of two tiles, Hi and Pause, beside them, tools beside the row and under the column, and a Remove tiles button beside Save changes.](../../../assets/screenshots/panel-extras-editor.png)
+![The editor open on the Keyboard: its keys drawn faintly with a row of two added tiles, Hello and My panels, above the last row of keys and a column of two tiles, Hi and Pause, beside them. Dashed plus buttons end the row and the column, another beside the first row of keys adds a column, and a dashed Add row button sits above the last row of keys. Column tools are under the picture, and a Remove tiles button beside Save changes.](../../../assets/screenshots/panel-extras-editor.png)
 
 Added tiles are saved on this computer and, if you sign in to your account, go to your other computers with your settings.
 
